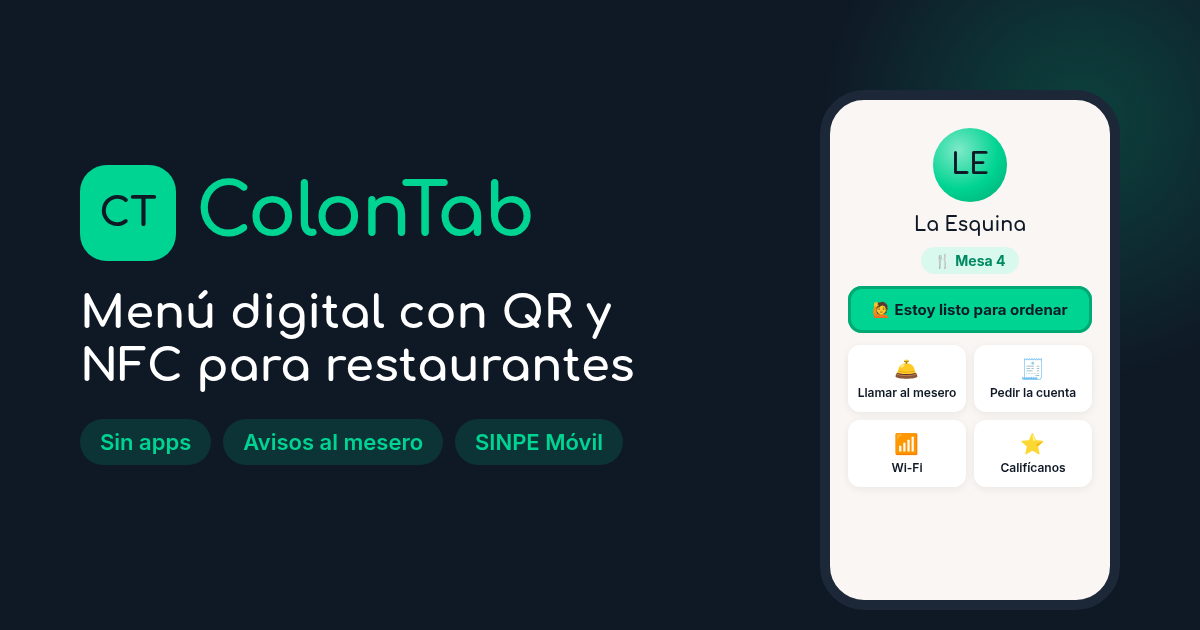
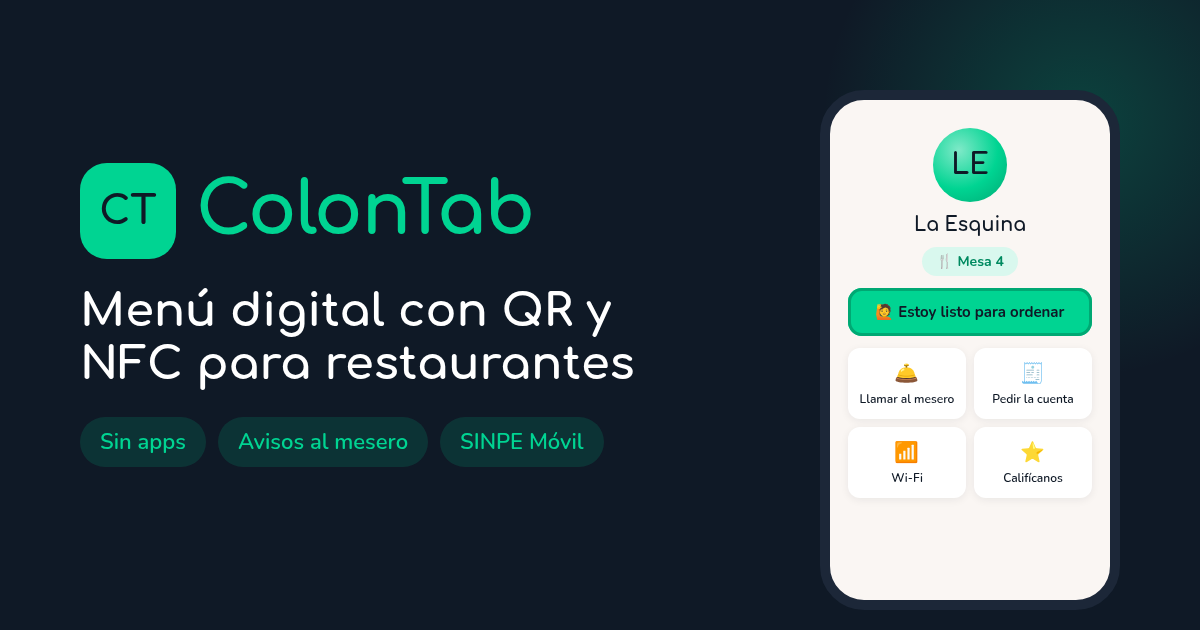
Diseño: letra Nunito, avisos sin franja lateral, portada sin etiqueta y títulos más claros

diff --git a/src/admin.css b/src/admin.css
@@ -4,7 +4,7 @@
 .admin-main { max-width: 1200px; margin: 0 auto; padding: 20px 16px 60px; }
 .stack-lg { display: flex; flex-direction: column; gap: 16px; }
 .row-between { display: flex; justify-content: space-between; align-items: center; gap: 12px; flex-wrap: wrap; }
-.section-title { font-size: 1.05rem; font-weight: 700; }
+.section-title { font-size: 1.25rem; font-weight: 700; }
 .small-text { font-size: 0.85rem; }
 .center-text { text-align: center; padding: 24px !important; }
 .hint.left { text-align: left; }
@@ -25,7 +25,7 @@
 .admin-header .icon-btn { background: rgba(255, 255, 255, 0.1); color: #fff; box-shadow: none; }
 .admin-header .btn-ghost { background: transparent; border-color: rgba(255, 255, 255, 0.25); color: #fff; }
 .admin-header-left, .admin-header-right { display: flex; align-items: center; gap: 12px; min-width: 0; }
-.admin-header h1 { font-size: 1.1rem; }
+.admin-header h1 { font-size: 1.6rem; line-height: 1.15; }
 .admin-header small a { text-decoration: underline; }
 .admin-email { font-size: 0.85rem; max-width: 220px; overflow: hidden; text-overflow: ellipsis; white-space: nowrap; }
 
@@ -128,11 +128,14 @@
 .call {
   display: flex; align-items: center; gap: 14px;
   background: var(--card); border-radius: var(--radius); box-shadow: var(--shadow); padding: 16px;
-  border-left: 6px solid var(--warn); animation: up .25s ease-out;
+  animation: up .25s ease-out;
 }
-.call-order { border-left-color: var(--green); }
-.call-bill { border-left-color: var(--info); }
-.call-icon { font-size: 2rem; }
+.call-icon {
+  flex: none; width: 56px; height: 56px; border-radius: 50%; display: grid; place-items: center; font-size: 1.7rem;
+  background: color-mix(in srgb, var(--warn) 16%, #fff);
+}
+.call-order .call-icon { background: color-mix(in srgb, var(--green) 18%, #fff); }
+.call-bill .call-icon { background: color-mix(in srgb, var(--info) 15%, #fff); }
 .call-info { flex: 1; min-width: 0; display: flex; flex-direction: column; gap: 2px; }
 .call-table { font-size: 1.3rem; font-weight: 800; }
 .call-text { font-weight: 600; }

diff --git a/src/landing.css b/src/landing.css
@@ -18,7 +18,6 @@
   background: var(--navy); color: #fff; text-align: center;
   padding: 56px 16px 72px; display: flex; flex-direction: column; align-items: center; gap: 18px;
 }
-.lp-eyebrow { color: var(--green); font-weight: 700; font-size: 0.85rem; letter-spacing: 0.06em; text-transform: uppercase; }
 .lp-hero h1 { font-size: clamp(2rem, 6vw, 3.4rem); line-height: 1.12; max-width: 820px; }
 .lp-lead { color: #c4ccd6; font-size: 1.08rem; max-width: 680px; }
 .lp-lead strong { color: #fff; }
@@ -48,10 +47,13 @@
 .lp-split h2 { font-size: clamp(1.5rem, 3.6vw, 2rem); margin-bottom: 12px; }
 .lp-split p { color: var(--text-2); }
 .lp-mock { background: var(--navy); border-radius: 24px; padding: 20px; display: flex; flex-direction: column; gap: 12px; }
-.lp-mock-card { display: flex; align-items: center; gap: 12px; background: #fff; border-radius: 14px; padding: 14px; border-left: 6px solid var(--green); }
-.lp-mock-card.bill { border-left-color: var(--info); }
-.lp-mock-card.waiter { border-left-color: var(--warn); }
-.lp-mock-card span { font-size: 1.6rem; }
+.lp-mock-card { display: flex; align-items: center; gap: 12px; background: #fff; border-radius: 14px; padding: 14px; }
+.lp-mock-card span {
+  flex: none; width: 46px; height: 46px; border-radius: 50%; display: grid; place-items: center; font-size: 1.4rem;
+  background: color-mix(in srgb, var(--green) 18%, #fff);
+}
+.lp-mock-card.bill span { background: color-mix(in srgb, var(--info) 15%, #fff); }
+.lp-mock-card.waiter span { background: color-mix(in srgb, var(--warn) 16%, #fff); }
 .lp-mock-card div { display: flex; flex-direction: column; }
 .lp-mock-card b { font-size: 1.1rem; }
 .lp-mock-card small { color: var(--muted); }

diff --git a/src/pages/Landing.tsx b/src/pages/Landing.tsx
@@ -30,11 +30,10 @@ export function Landing() {
       </header>
 
       <section className="lp-hero">
-        <p className="lp-eyebrow">Menú digital para restaurantes en Costa Rica</p>
         <h1>Tus clientes piden con un clic desde su mesa</h1>
         <p className="lp-lead">
-          Con <strong>ColonTab</strong> cada mesa tiene un <strong>código QR</strong> y una <strong>etiqueta NFC</strong>.
-          El cliente ve el menú en su celular y avisa al mesero cuando está listo para ordenar o pagar con{' '}
+          <strong>ColonTab</strong> es el menú digital para restaurantes en Costa Rica: cada mesa tiene un{' '}
+          <strong>código QR</strong> y una <strong>etiqueta NFC</strong>. El cliente ve el menú en su celular y avisa al mesero cuando está listo para ordenar o pagar con{' '}
           <strong>SINPE Móvil</strong>. Sin descargar aplicaciones.
         </p>
         <div className="lp-actions">

diff --git a/index.html b/index.html
@@ -30,7 +30,7 @@
 
     <link rel="preconnect" href="https://fonts.googleapis.com" />
     <link rel="preconnect" href="https://fonts.gstatic.com" crossorigin />
-    <link href="https://fonts.googleapis.com/css2?family=Comfortaa:wght@600;700&family=Inter:wght@400;500;600;700;800&display=swap" rel="stylesheet" />
+    <link href="https://fonts.googleapis.com/css2?family=Comfortaa:wght@600;700&family=Nunito:wght@400;500;600;700;800&display=swap" rel="stylesheet" />
     <!--jsonld-->
   </head>
   <body>

diff --git a/src/index.css b/src/index.css
@@ -20,8 +20,8 @@
   --danger: #d92d20;
   --radius: 18px;
   --shadow: 0 2px 10px rgba(15, 25, 38, 0.07);
-  --font-title: 'Comfortaa', 'Inter', system-ui, sans-serif;
-  font-family: 'Inter', system-ui, -apple-system, sans-serif;
+  --font-title: 'Comfortaa', 'Nunito', system-ui, sans-serif;
+  font-family: 'Nunito', system-ui, -apple-system, sans-serif;
   color: var(--text);
   -webkit-font-smoothing: antialiased;
 }
